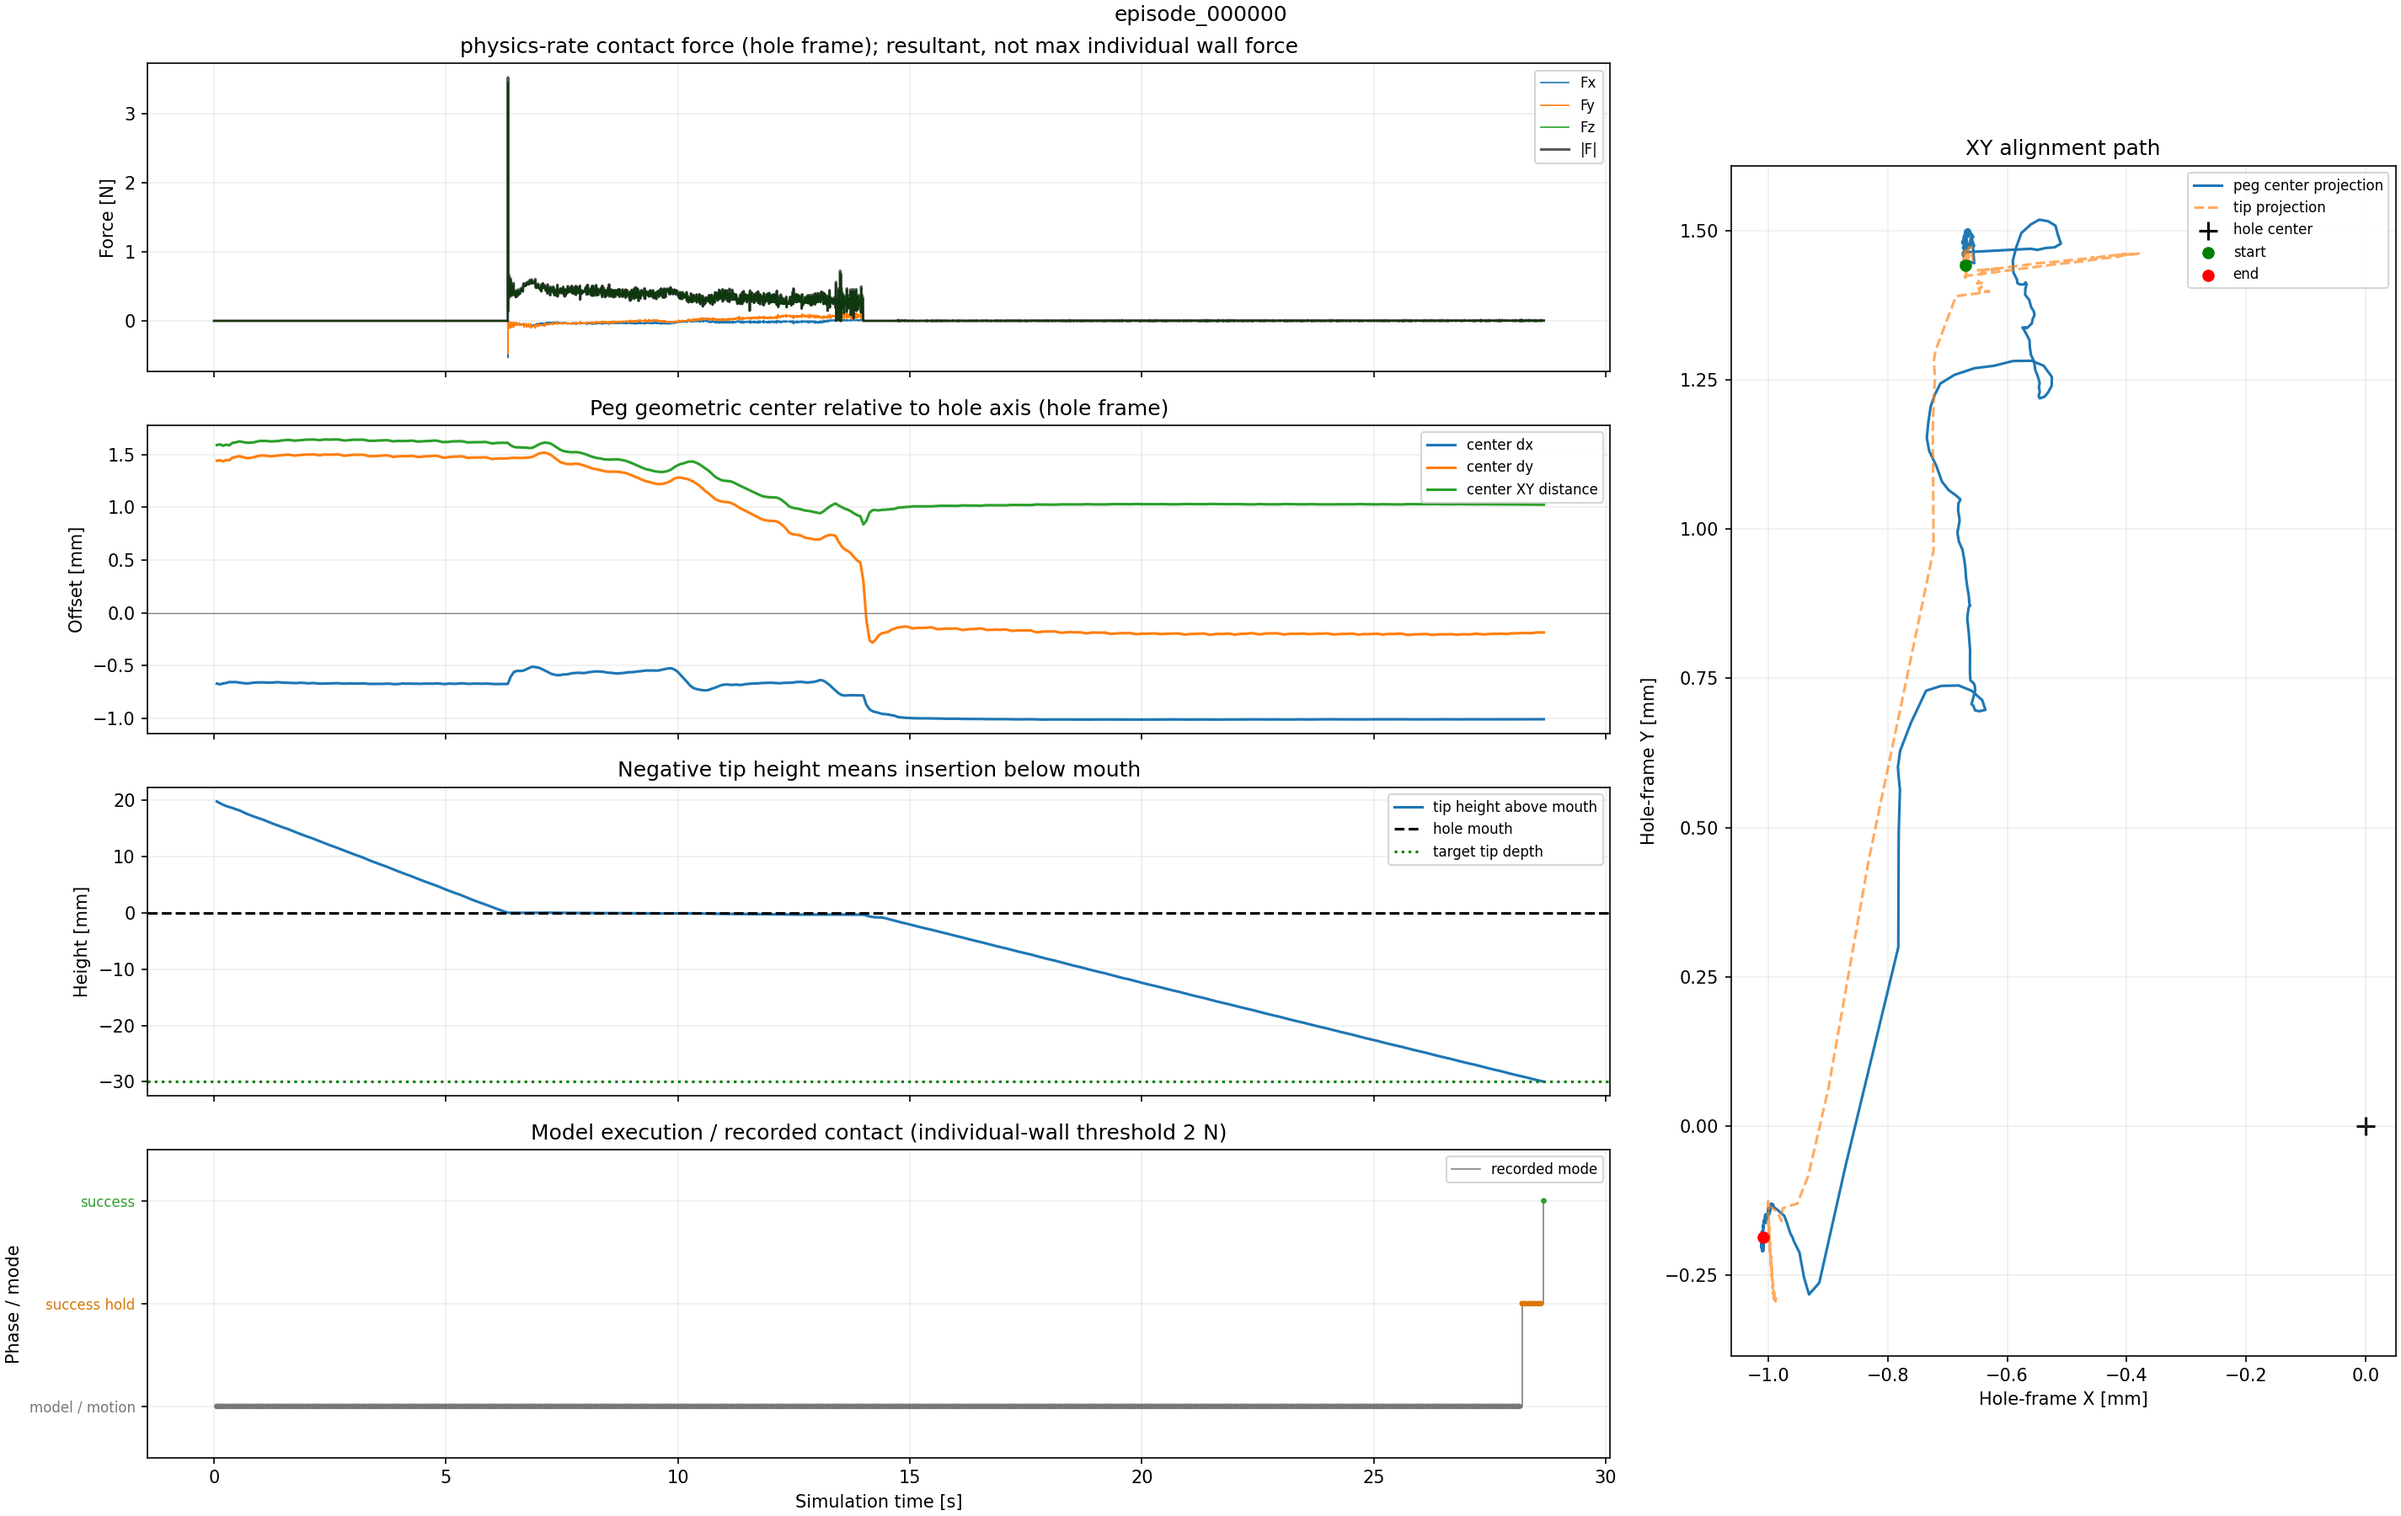
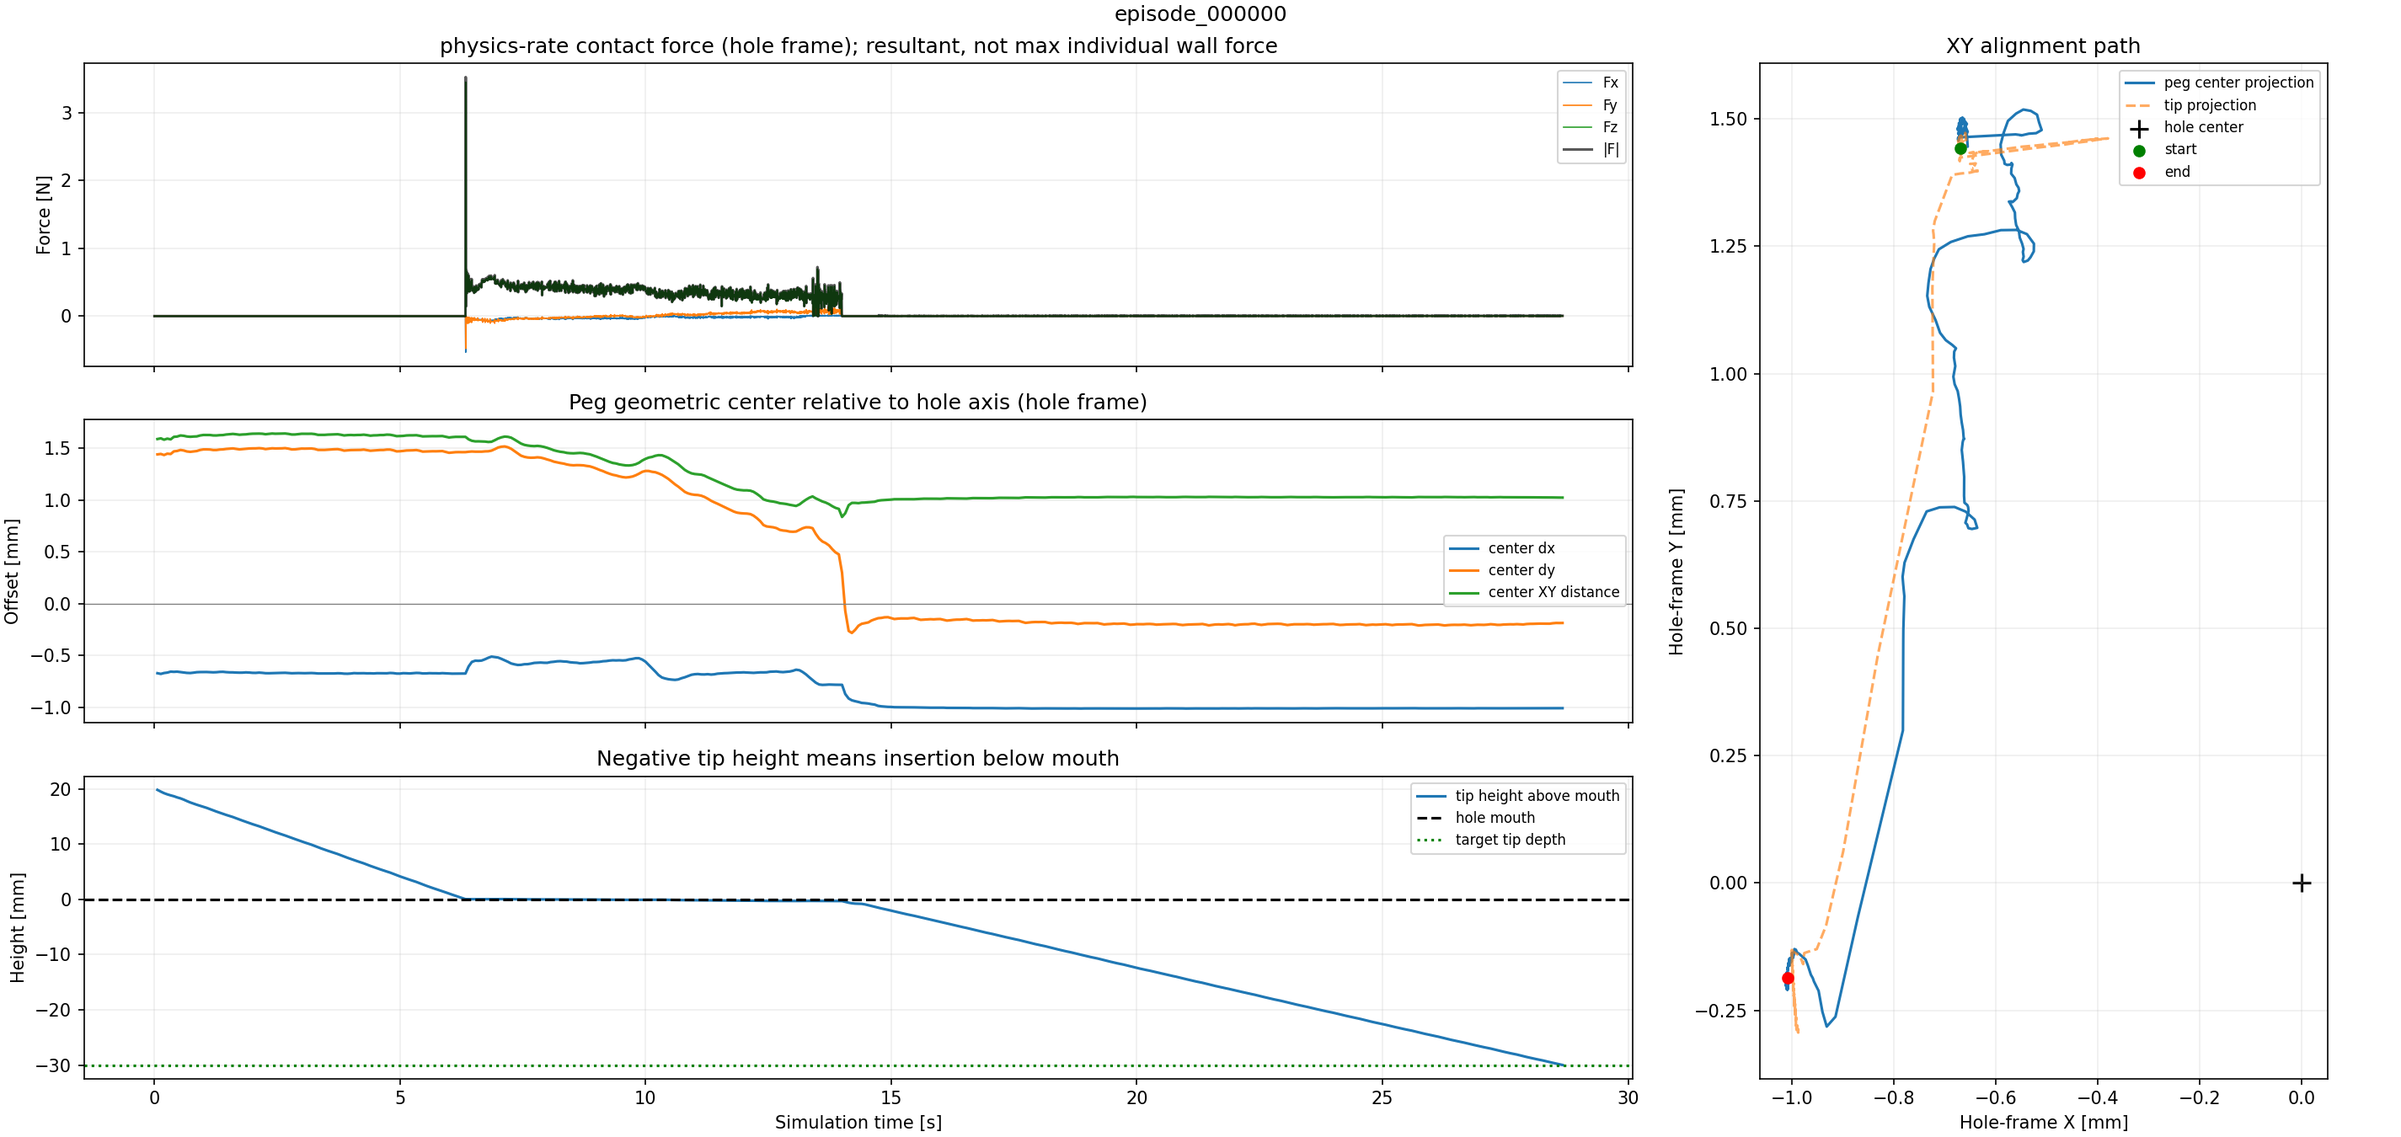
update

diff --git a/index.html b/index.html
@@ -116,12 +116,12 @@
 <div class="simulation-grid">
 <figure class="simulation-card">
 <div class="simulation-method"><h4><i aria-hidden="true" class="simulation-dot" style="--c:var(--wam)"></i>WAM</h4><span>Episode 000001</span></div>
-<a href="assets/images/simulation/peg-wam.png" target="_blank" rel="noopener" aria-label="Open WAM peg diagnostics at full resolution"><img width="2850" height="1800" loading="lazy" src="assets/images/simulation/peg-wam.png" alt="WAM peg diagnostics showing lateral drift and no substantial insertion"></a>
+<a href="assets/images/simulation/peg-wam.png?v=20261026-no-phase" target="_blank" rel="noopener" aria-label="Open WAM peg diagnostics at full resolution"><img width="2850" height="1350" loading="lazy" src="assets/images/simulation/peg-wam.png?v=20261026-no-phase" alt="WAM peg diagnostics showing lateral drift and no substantial insertion"></a>
 <figcaption>Lateral offset grows while the peg tip remains near the hole mouth.</figcaption>
 </figure>
 <figure class="simulation-card">
 <div class="simulation-method"><h4><i aria-hidden="true" class="simulation-dot" style="--c:var(--cw)"></i>CW-WAM</h4><span>Episode 000000</span></div>
-<a href="assets/images/simulation/peg-cw-wam.png" target="_blank" rel="noopener" aria-label="Open CW-WAM peg diagnostics at full resolution"><img width="2850" height="1800" loading="lazy" src="assets/images/simulation/peg-cw-wam.png" alt="CW-WAM peg diagnostics showing alignment adjustment, insertion and success"></a>
+<a href="assets/images/simulation/peg-cw-wam.png?v=20261026-no-phase" target="_blank" rel="noopener" aria-label="Open CW-WAM peg diagnostics at full resolution"><img width="2850" height="1350" loading="lazy" src="assets/images/simulation/peg-cw-wam.png?v=20261026-no-phase" alt="CW-WAM peg diagnostics showing alignment adjustment, insertion and success"></a>
 <figcaption>Alignment adjustment is followed by insertion and a successful hold.</figcaption>
 </figure>
 </div>
